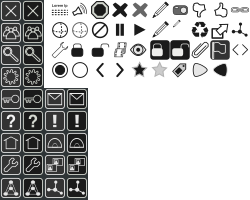
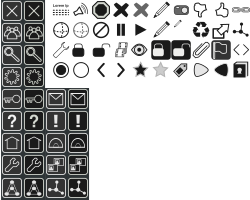
implement filer/file-as

Changed region(s): [[0.0, 0.0, 1.0, 1.0], [0.616, 0.09, 0.728, 0.18], [0.532, 0.12, 0.588, 0.18]]

diff --git a/view/theme/dispy-dark/style.css b/view/theme/dispy-dark/style.css
@@ -947,7 +947,7 @@ aside #viewcontacts {
     background-color: #3e3f3e;
 	color: #eec;
     border: 1px #eec solid;
-    border-radius: 3px;
+    border-radius: 5px;
     padding: 3px 3px 6px 10px;
 }
 #jot-preview-content .wall-item-outside-wrapper {
@@ -2033,6 +2033,16 @@ div[id$="wrapper"] br {
 	opacity: 1.0 !important;
 	filter:alpha(opacity=100) !important;
 }
+.filesavetags {
+	margin: 20px 0;
+	opacity: 0.5;
+	filter:alpha(opacity=50);
+}
+.filesavetags:hover {
+	margin: 20px 0;
+	opacity: 1.0 !important;
+	filter:alpha(opacity=100) !important;
+}
 .item-select {
 	opacity: 0.1;
 	filter:alpha(opacity=10);
@@ -2484,6 +2494,9 @@ div[id$="wrapper"] br {
 .dislike {
 	background-position: -190px 0;
 }
+.file-as {
+	background-position: -230px -60px;
+}
 .like {
 	background-position: -211px 0;
 }
@@ -2570,9 +2583,9 @@ div[id$="wrapper"] br {
 }
 .border, .border:hover {
 	border: 1px solid #babdb6;
-    -webkit-border-radius: 3px;
-    -moz-border-radius: 3px;
-    border-radius: 3px;	
+    -webkit-border-radius: 5px;
+    -moz-border-radius: 5px;
+    border-radius: 5px;	
 }
 .attachtype {
     display: block;

diff --git a/view/theme/dispy/style.css b/view/theme/dispy/style.css
@@ -2023,6 +2023,16 @@ div[id$="wrapper"] br {
 	opacity: 1.0 !important;
 	filter:alpha(opacity=100) !important;
 }
+.filesavetags {
+	margin: 20px 0;
+	opacity: 0.5;
+	filter:alpha(opacity=50);
+}
+.filesavetags:hover {
+	margin: 20px 0;
+	opacity: 1.0 !important;
+	filter:alpha(opacity=100) !important;
+}
 .item-select {
 	opacity: 0.1;
 	filter:alpha(opacity=10);
@@ -2473,6 +2483,9 @@ div[id$="wrapper"] br {
 }
 .dislike {
 	background-position: -190px 0;
+}
+.file-as {
+	background-position: -230px -60px;
 }
 .like {
 	background-position: -211px 0;
